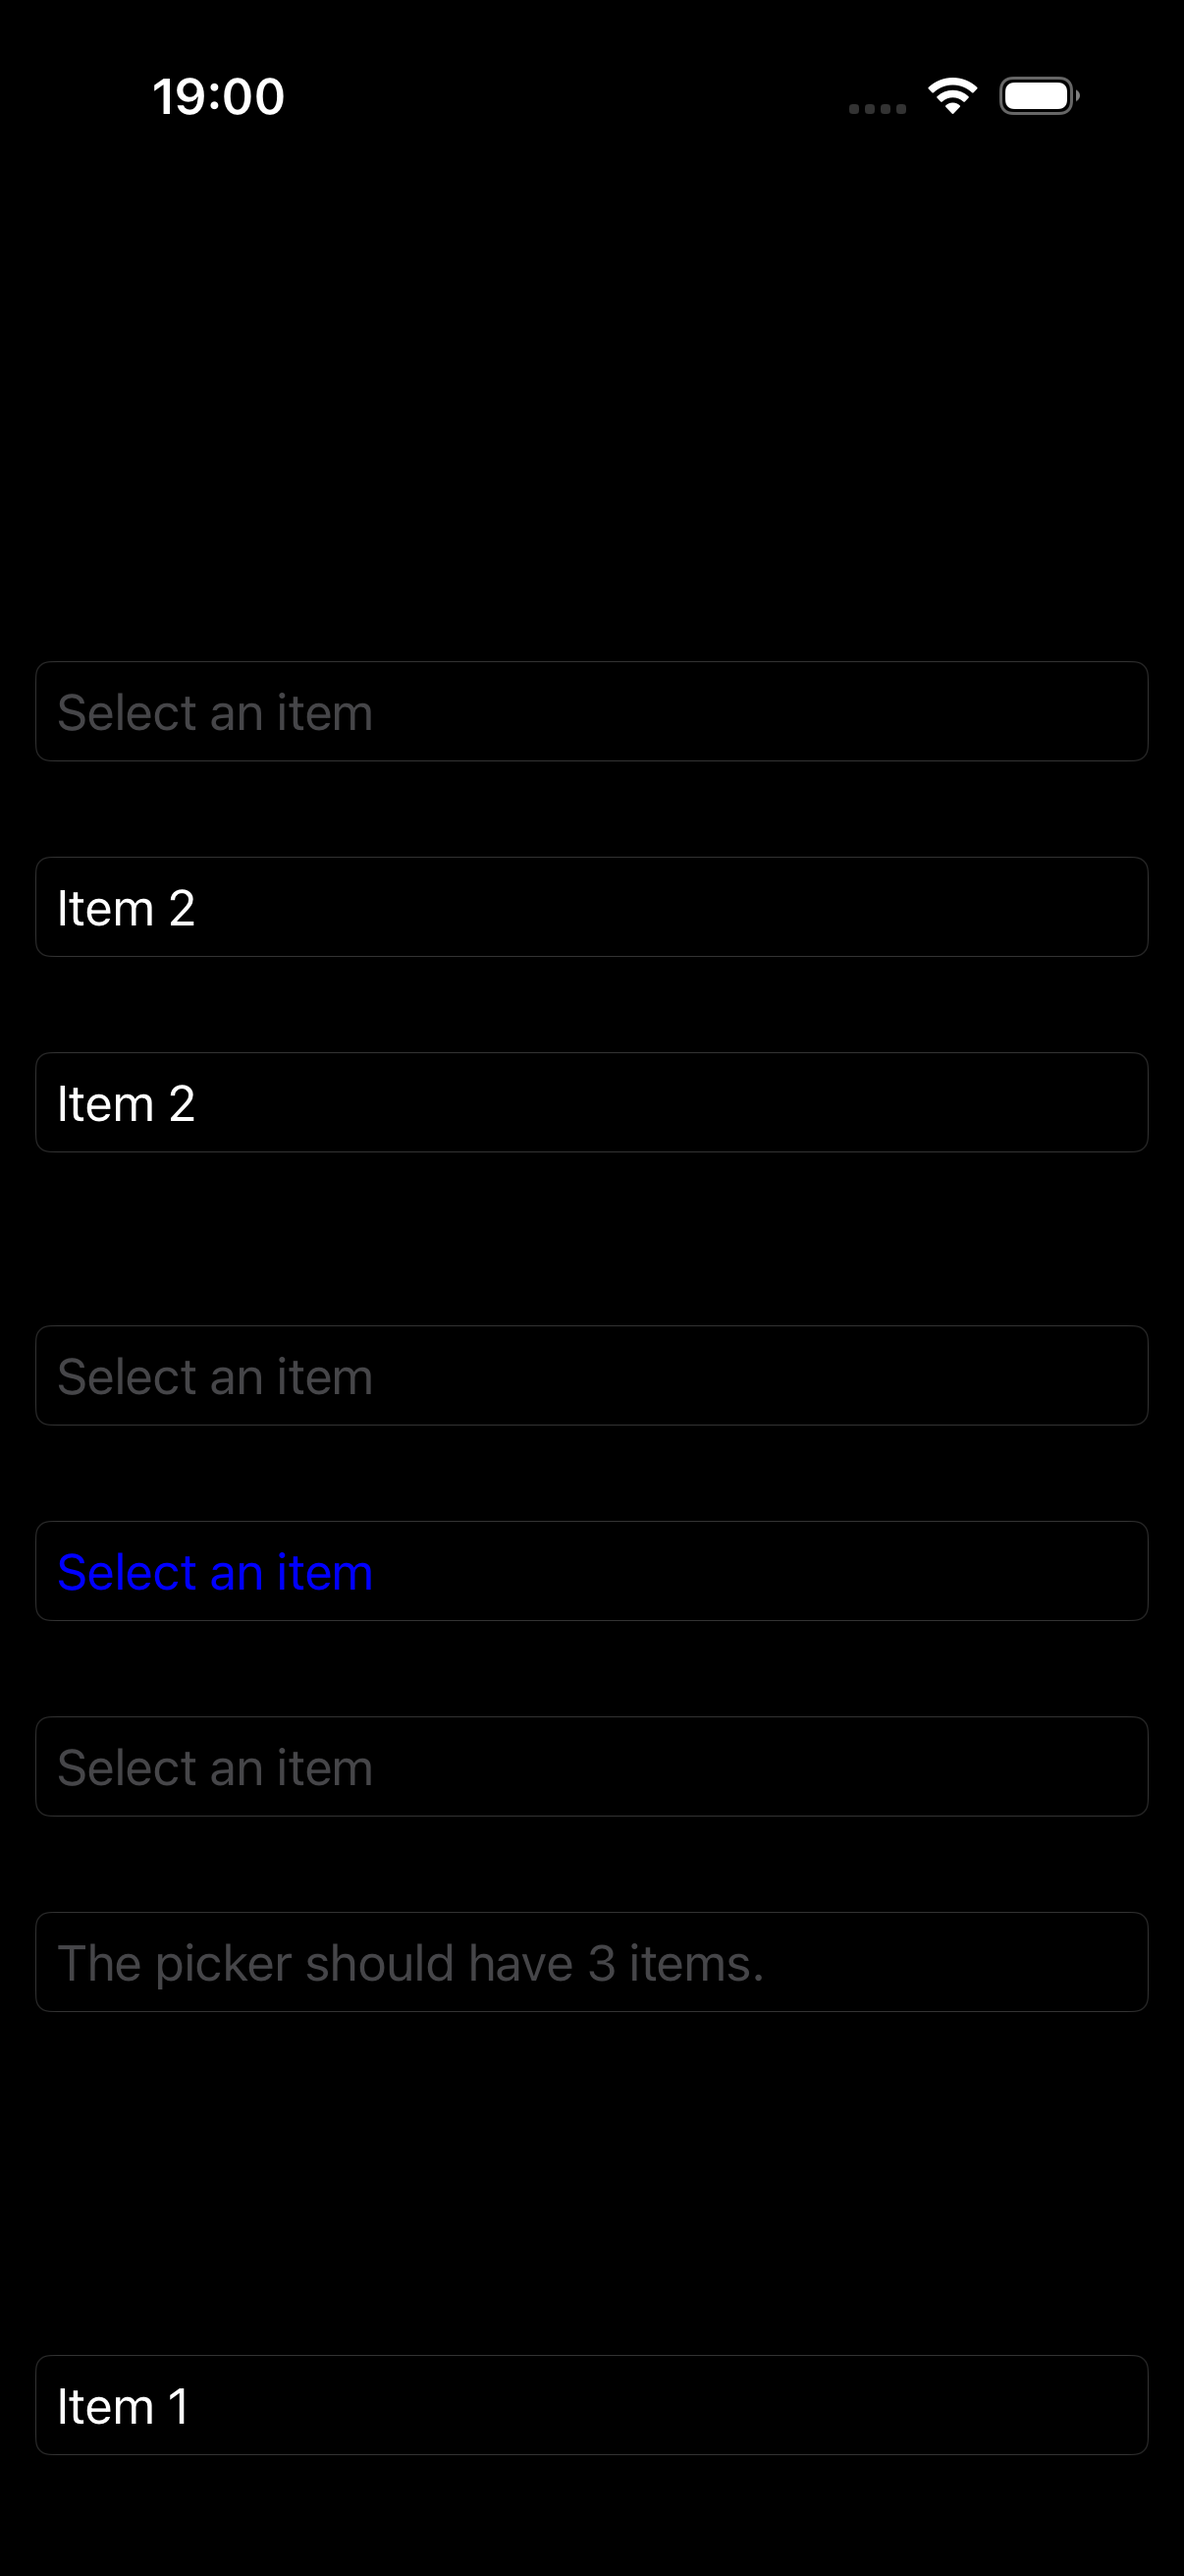
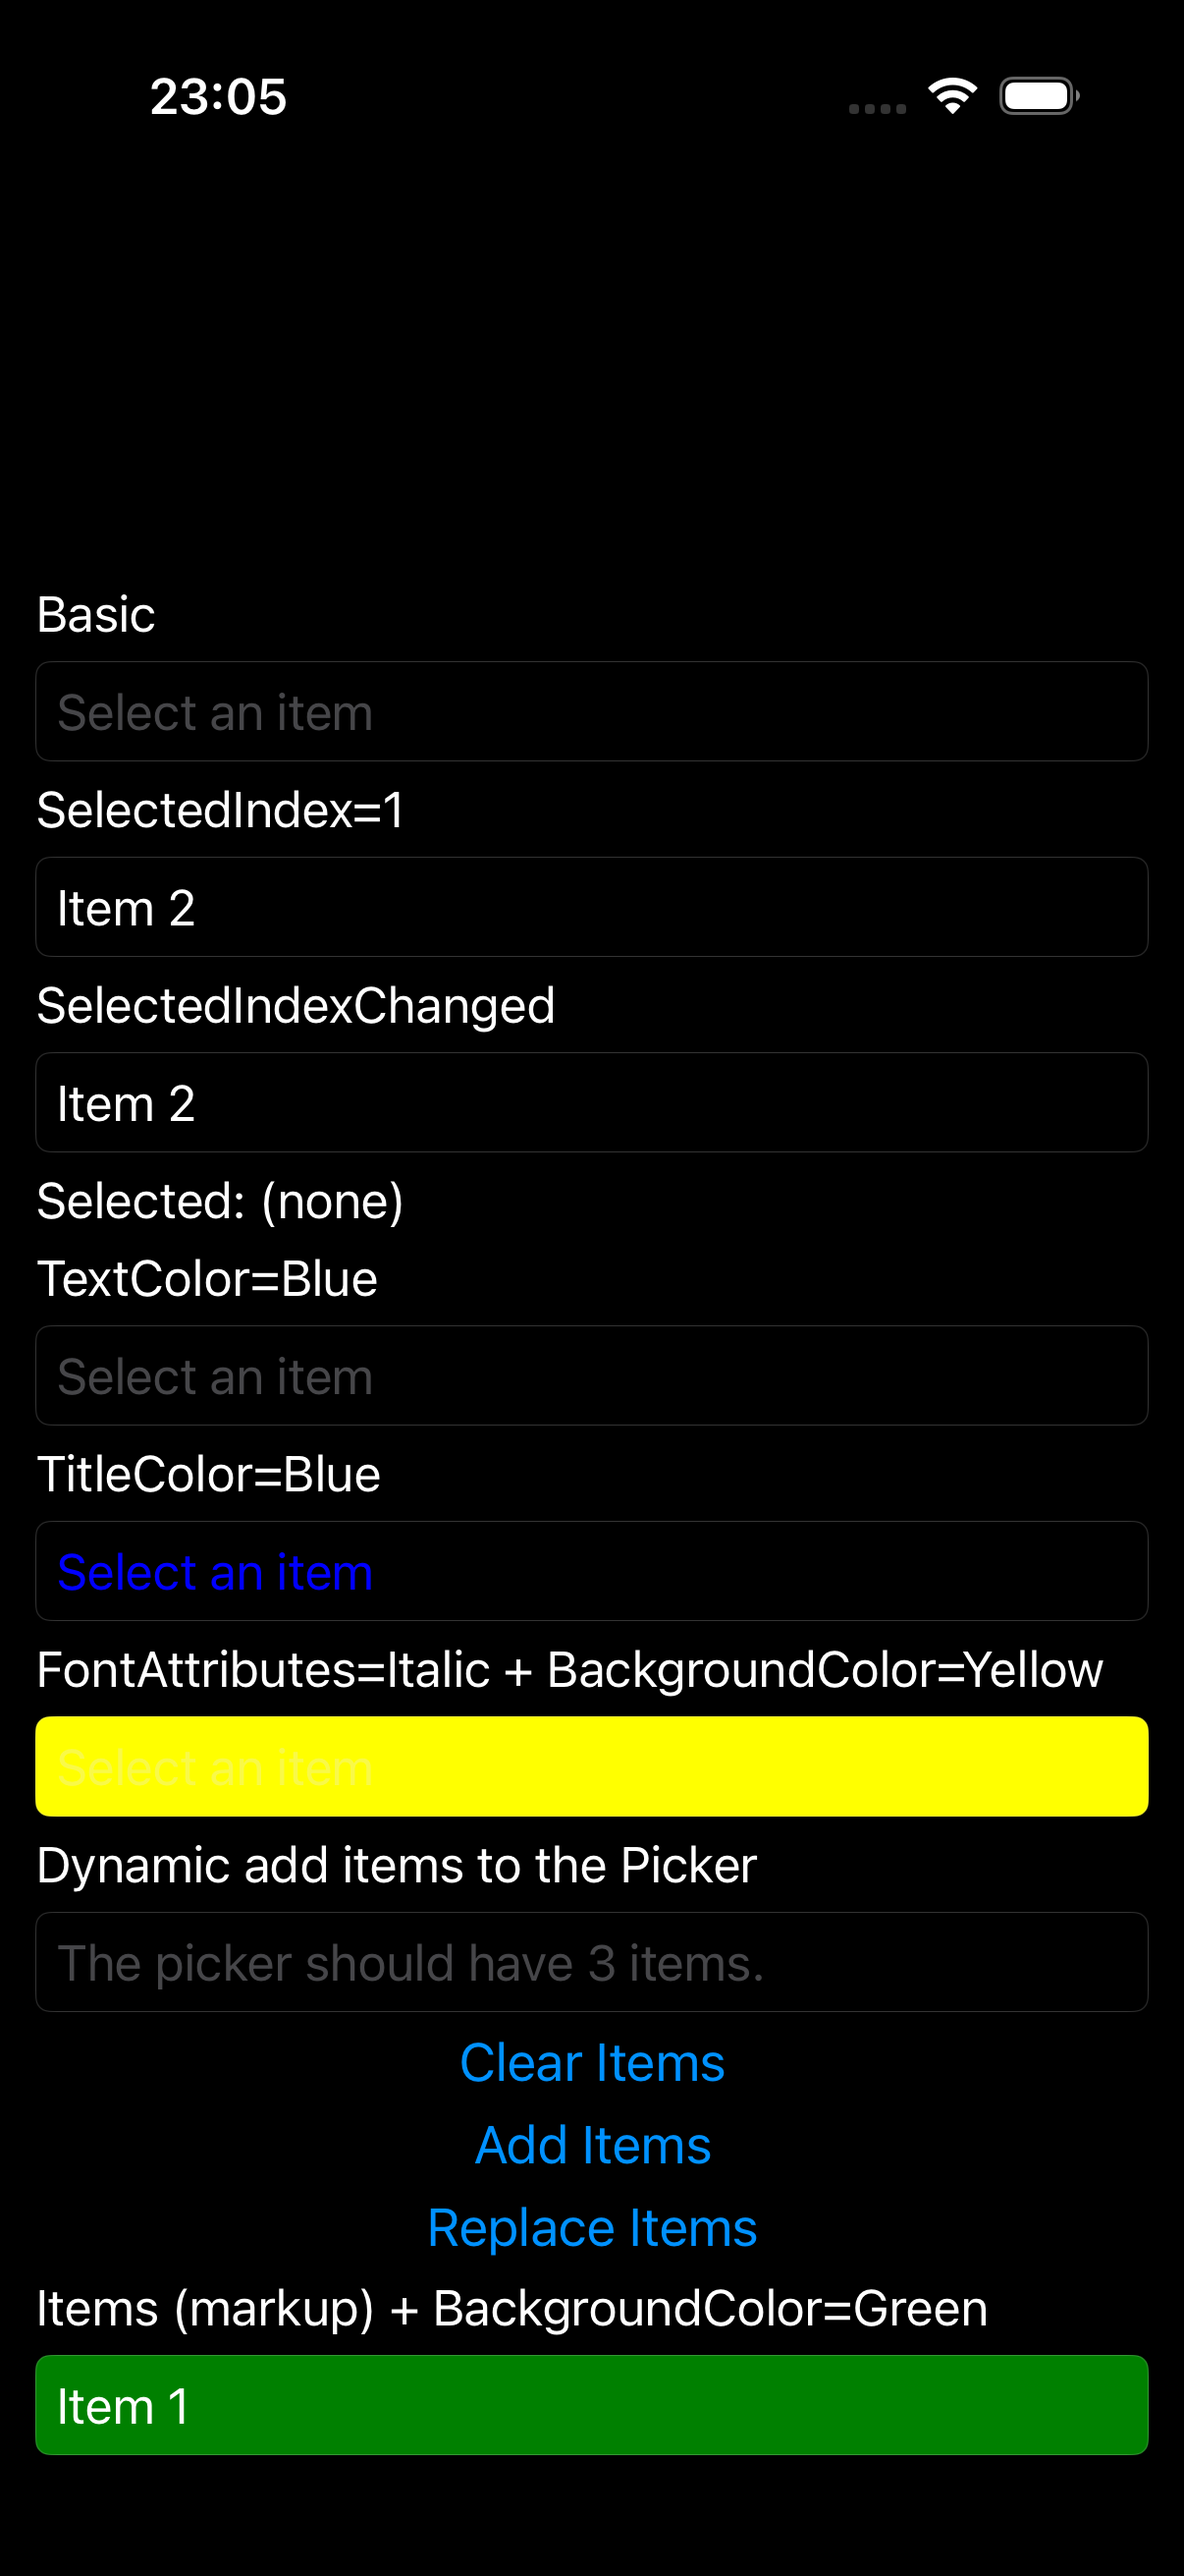
fix(ios,parity): Picker pushes BackgroundColor to the UITextField (flat fill)
example 6/172 (picker): iOS picker_platform omitted update_background (deferred to
the no-op base mirror), so BackgroundColor=Yellow/Green pickers rendered no fill.
Now overridden: a solid paint is pushed to the UITextField's backgroundColor
PROPERTY (not layer.backgroundColor) — the RoundedRect bezel is drawn over a layer
fill (peeks only at corners), but the view-property fill suppresses the bezel and
fills flat, matching MAUI. Gradient/image still use apply_background; null clears.
Text colors already matched (handler left system default). Tracker: picker
pending->minor (6 minor).

diff --git a/port/cpp/src/platform/ios/picker_handler.mm b/port/cpp/src/platform/ios/picker_handler.mm
@@ -35,6 +35,7 @@
 #include "ios_done_accessory.hpp"
 #include "ios_semantics_ops.hpp"
 #include "ios_text_ops.hpp"
+#include "ios_visual_ops.hpp"
 #include "maui/core/i_picker.hpp"
 #include "maui/core/picker_handler.hpp"
 #include "maui/core/text_alignment.hpp"
@@ -43,6 +44,7 @@
 #include "maui/graphics/color.hpp"
 #include "maui/graphics/rect.hpp"
 #include "maui/graphics/size.hpp"
+#include "maui/graphics/solid_paint.hpp"
 
 // MauiPickerSource  <=  Microsoft.Maui.Handlers.PickerSource (UIPickerViewModel): the wheel's data
 // source + delegate, reading rows through the virtual view's i_item_delegate face and tracking the
@@ -274,6 +276,28 @@ namespace maui::core
     void picker_platform::update_automation_id(std::string_view value)
     {
         as_field(native).accessibilityIdentifier = to_ns_string(value);
+    }
+
+    void picker_platform::update_background(const maui::graphics::paint* value)
+    {
+        // The MauiPicker is a UITextField with BorderStyle = RoundedRect. A solid BackgroundColor must be
+        // pushed to the UIView's backgroundColor PROPERTY, not the backing layer: the rounded-rect bezel is
+        // drawn ON TOP of layer.backgroundColor (so a layer fill peeks only at the corners), whereas setting
+        // the view property suppresses the bezel and fills the field flat — matching MAUI's solid picker
+        // background. Gradient/image paints still need the layer machinery; a null paint clears the override.
+        UITextField* const field = as_field(native);
+        if (const auto* const solid = dynamic_cast<const maui::graphics::solid_paint*>(value))
+        {
+            field.backgroundColor = maui::platform::ios::to_ui_color(solid->color());
+        }
+        else if (value != nullptr)
+        {
+            maui::platform::ios::apply_background(native, value);
+        }
+        else
+        {
+            field.backgroundColor = nil;
+        }
     }
 
     std::unique_ptr<picker_platform> picker_handler::create_platform_view()

diff --git a/port/cpp/include/maui/core/picker_handler.hpp b/port/cpp/include/maui/core/picker_handler.hpp
@@ -84,6 +84,9 @@ namespace maui::core
         void update_opacity(double value) override;
         void update_is_enabled(bool value) override;
         void update_automation_id(std::string_view value) override;
+        // BackgroundColor IS pushed to the UITextField (it respects backgroundColor directly, unlike a
+        // UIButton): the MauiPicker is a plain UIView, so the shared apply_background paints its layer.
+        void update_background(const maui::graphics::paint* value) override;
 #endif
     };
 

diff --git a/port/cpp/docs/comparison/README.md b/port/cpp/docs/comparison/README.md
@@ -2,7 +2,7 @@
 
 Theme-matched iOS comparison: each page rendered by **real .NET MAUI** vs the **C++ port**, on the same iPhone 17 simulator, compared **light-vs-light** and **dark-vs-dark**. Both stacks render native-default controls + the system font (the C# app's `dotnet new maui` default `Styles.xaml` + OpenSans are stripped; appearance forced via `MAUI_THEME` / `MAUI_APPEARANCE`). Goal: pixel-perfect parity, fixed example-by-example.
 
-**Progress: 0 / 172 🟢 matched** · 5 🟡 minor · 57 🔴 diff · 110 ⬜ pending
+**Progress: 0 / 172 🟢 matched** · 6 🟡 minor · 57 🔴 diff · 109 ⬜ pending
 
 Status legend: 🟢 pixel-match (both themes) · 🟡 minor diff · 🔴 notable diff to fix · ⬜ not yet reviewed. Per-theme verdicts in `parity_status.json`.
 
@@ -17,7 +17,7 @@ Rows are in **fix order** (top → bottom): foundational single controls first (
 | 3 | Entry | 🟡<br>L:minor<br>D:minor | ![](csharp_ios_light/entry.png) | ![](cpp_ios_light/entry.png) | ![](csharp_ios_dark/entry.png) | ![](cpp_ios_dark/entry.png) |
 | 4 | Editor | 🟡<br>L:minor<br>D:minor | ![](csharp_ios_light/editor.png) | ![](cpp_ios_light/editor.png) | ![](csharp_ios_dark/editor.png) | ![](cpp_ios_dark/editor.png) |
 | 5 | Search Bar | 🟡<br>L:minor<br>D:minor | ![](csharp_ios_light/search_bar.png) | ![](cpp_ios_light/search_bar.png) | ![](csharp_ios_dark/search_bar.png) | ![](cpp_ios_dark/search_bar.png) |
-| 6 | Picker | ⬜<br>L:pending<br>D:pending | ![](csharp_ios_light/picker.png) | ![](cpp_ios_light/picker.png) | ![](csharp_ios_dark/picker.png) | ![](cpp_ios_dark/picker.png) |
+| 6 | Picker | 🟡<br>L:minor<br>D:minor | ![](csharp_ios_light/picker.png) | ![](cpp_ios_light/picker.png) | ![](csharp_ios_dark/picker.png) | ![](cpp_ios_dark/picker.png) |
 | 7 | Date Picker | 🔴<br>L:diff<br>D:diff | ![](csharp_ios_light/date_picker.png) | ![](cpp_ios_light/date_picker.png) | ![](csharp_ios_dark/date_picker.png) | ![](cpp_ios_dark/date_picker.png) |
 | 8 | Time Picker | ⬜<br>L:pending<br>D:pending | ![](csharp_ios_light/time_picker.png) | ![](cpp_ios_light/time_picker.png) | ![](csharp_ios_dark/time_picker.png) | ![](cpp_ios_dark/time_picker.png) |
 | 9 | Pickers | ⬜<br>L:pending<br>D:pending | ![](csharp_ios_light/pickers.png) | ![](cpp_ios_light/pickers.png) | ![](csharp_ios_dark/pickers.png) | ![](cpp_ios_dark/pickers.png) |
